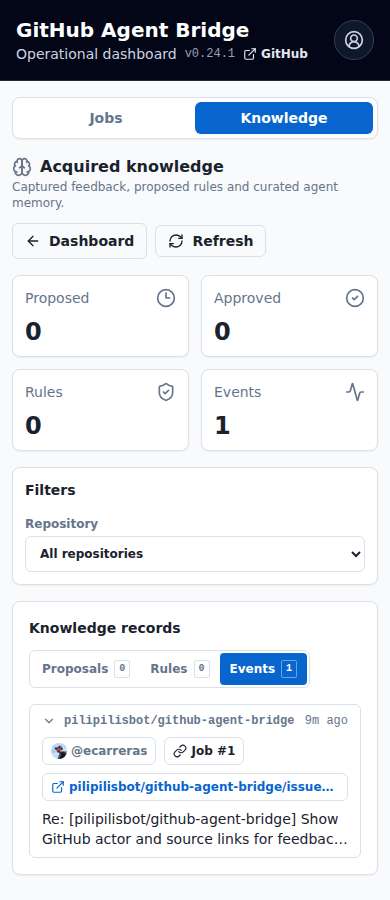
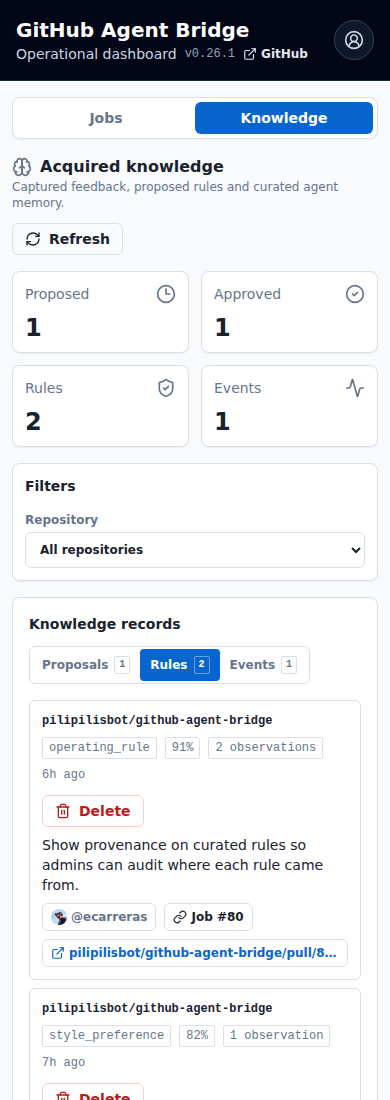
feat: show feedback rule source context

diff --git a/dashboard/src/main.tsx b/dashboard/src/main.tsx
@@ -247,6 +247,7 @@ type KnowledgeRule = {
   created_at: string;
   last_seen: string;
   source_events: string[];
+  source_event_details: KnowledgeEvent[];
   observations: number;
 };
 
@@ -1119,33 +1120,49 @@ function KnowledgeRules({ rules, loading, isAdmin, now, onDeleteRule }: { rules:
   if (rules.length === 0) return <EmptyState text="No curated rules match the current filters." />;
   return (
     <div className="grid gap-2">
-      {rules.map((rule) => (
-        <article key={rule.id} className="grid min-w-0 gap-2 rounded-md border border-border bg-white p-3">
-          <div className="flex flex-wrap items-start justify-between gap-3">
-            <KnowledgeRowHeader scope={rule.scope} type={rule.type} confidence={rule.confidence} status={`${rule.observations} observation${rule.observations === 1 ? "" : "s"}`} timestamp={rule.last_seen} now={now} />
-            {isAdmin ? (
-              <button
-                className="inline-flex h-8 items-center gap-2 rounded-md border border-red-200 px-3 text-sm font-semibold text-red-700 hover:bg-red-50 disabled:opacity-60"
-                type="button"
-                disabled={busyId === rule.id}
-                onClick={async () => {
-                  if (!window.confirm("Delete this curated rule?")) return;
-                  setBusyId(rule.id);
-                  try {
-                    await onDeleteRule(rule.id);
-                  } finally {
-                    setBusyId(null);
-                  }
-                }}
-              >
-                <Trash2 className="h-4 w-4" aria-hidden />
-                Delete
-              </button>
-            ) : null}
-          </div>
-          <p className="min-w-0 break-words text-sm font-medium [overflow-wrap:anywhere]">{rule.rule}</p>
-        </article>
-      ))}
+      {rules.map((rule) => {
+        const sources = rule.source_event_details ?? [];
+        const primarySource = sources[0];
+        const actor = primarySource ? primarySource.trigger_actor || (primarySource.actor !== "github" ? primarySource.actor : null) : null;
+        const sourceUrls = sources.flatMap((source) => source.github_urls ?? []);
+        return (
+          <article key={rule.id} className="grid min-w-0 gap-2 rounded-md border border-border bg-white p-3">
+            <div className="flex flex-wrap items-start justify-between gap-3">
+              <KnowledgeRowHeader scope={rule.scope} type={rule.type} confidence={rule.confidence} status={`${rule.observations} observation${rule.observations === 1 ? "" : "s"}`} timestamp={rule.last_seen} now={now} />
+              {isAdmin ? (
+                <button
+                  className="inline-flex h-8 items-center gap-2 rounded-md border border-red-200 px-3 text-sm font-semibold text-red-700 hover:bg-red-50 disabled:opacity-60"
+                  type="button"
+                  disabled={busyId === rule.id}
+                  onClick={async () => {
+                    if (!window.confirm("Delete this curated rule?")) return;
+                    setBusyId(rule.id);
+                    try {
+                      await onDeleteRule(rule.id);
+                    } finally {
+                      setBusyId(null);
+                    }
+                  }}
+                >
+                  <Trash2 className="h-4 w-4" aria-hidden />
+                  Delete
+                </button>
+              ) : null}
+            </div>
+            <p className="min-w-0 break-words text-sm font-medium [overflow-wrap:anywhere]">{rule.rule}</p>
+            <div className="flex min-w-0 flex-wrap items-center gap-2">
+              <ActorLabel actor={actor} avatarUrl={primarySource?.trigger_actor_avatar_url} framed />
+              {primarySource?.source_job_id ? (
+                <a className="inline-flex h-7 items-center gap-1 rounded-md border border-border px-2 text-xs font-semibold text-foreground hover:bg-white" href={jobPath(primarySource.source_job_id)}>
+                  <Link className="h-3.5 w-3.5" aria-hidden />
+                  Job #{primarySource.source_job_id}
+                </a>
+              ) : null}
+              {sourceUrls.length > 0 ? <GitHubLinkList urls={sourceUrls} compact /> : <span className="font-mono text-xs text-muted">No GitHub link</span>}
+            </div>
+          </article>
+        );
+      })}
     </div>
   );
 }

diff --git a/dashboard/src/main.test.tsx b/dashboard/src/main.test.tsx
@@ -358,6 +358,28 @@ describe("knowledge proposals", () => {
               source_events: ["event-1"],
               created_at: "2026-06-04T10:00:00Z",
               last_seen: "2026-06-04T10:01:00Z",
+              source_event_details: [
+                {
+                  id: "event-1",
+                  occurred_at: "2026-06-04T10:00:00Z",
+                  captured_at: "2026-06-04T10:01:00Z",
+                  source: "github",
+                  scope: "repo:pilipilisbot/github-agent-bridge",
+                  actor: "ecarreras",
+                  trigger_actor: "ecarreras",
+                  trigger_actor_avatar_url: "https://avatars.githubusercontent.com/u/294235?v=4",
+                  github_urls: ["https://github.com/pilipilisbot/github-agent-bridge/issues/73#issuecomment-1"],
+                  source_url: "https://github.com/pilipilisbot/github-agent-bridge/issues/73#issuecomment-1",
+                  source_job_id: 510,
+                  source_table: "job",
+                  github_context: { urls: ["https://github.com/pilipilisbot/github-agent-bridge/issues/73#issuecomment-1"] },
+                  comment: "Prefer tabs for knowledge.",
+                  context: { issue: 73 },
+                  classification: "style_preference",
+                  confidence: 0.84,
+                  memorable: true,
+                },
+              ],
             },
           ],
           events: [
@@ -406,6 +428,9 @@ describe("knowledge proposals", () => {
     expect(screen.getByText("Keep rule rows compact.")).toBeInTheDocument();
     expect(screen.queryByText("Keep knowledge moderation auditable.")).not.toBeInTheDocument();
     expect(screen.queryByLabelText("Proposal status")).not.toBeInTheDocument();
+    expect(screen.getByText("@ecarreras")).toBeInTheDocument();
+    expect(screen.getByText("Job #510")).toBeInTheDocument();
+    expect(screen.getByText("pilipilisbot/github-agent-bridge/issues/73#issuecomment-1")).toBeInTheDocument();
 
     await user.click(screen.getByRole("tab", { name: /events \(1\)/i }));
     expect(screen.getByText("Prefer tabs for knowledge.")).toBeInTheDocument();

diff --git a/src/github_agent_bridge/dashboard_static/index.html b/src/github_agent_bridge/dashboard_static/index.html
@@ -4,7 +4,7 @@
     <meta charset="UTF-8" />
     <meta name="viewport" content="width=device-width, initial-scale=1.0" />
     <title>GitHub Agent Bridge Dashboard</title>
-    <script type="module" crossorigin src="/assets/index-D2I54utr.js"></script>
+    <script type="module" crossorigin src="/assets/index-DKZ9WTH4.js"></script>
     <link rel="modulepreload" crossorigin href="/assets/charts-DRWoArYU.js">
     <link rel="stylesheet" crossorigin href="/assets/index-BUiy8IIC.css">
   </head>

diff --git a/src/github_agent_bridge/feedback.py b/src/github_agent_bridge/feedback.py
@@ -714,7 +714,21 @@ def list_rules(db_path: str | Path, scope: str = "", min_confidence: float | Non
                 "created_at": row["created_at"],
                 "last_seen": row["last_seen"],
                 "source_events": json.loads(row["source_events_json"] or "[]"),
+                "source_event_details": _source_event_details(con, json.loads(row["source_events_json"] or "[]")),
                 "observations": row["observations"],
             }
             for row in con.execute(sql, args)
         ]
+
+
+def _source_event_details(con: sqlite3.Connection, source_events: list[str]) -> list[dict[str, Any]]:
+    details: list[dict[str, Any]] = []
+    seen: set[str] = set()
+    for event_id in source_events:
+        if not event_id or event_id in seen:
+            continue
+        seen.add(event_id)
+        row = con.execute("SELECT * FROM feedback_events WHERE id=?", (event_id,)).fetchone()
+        if row:
+            details.append(_enrich_event(con, _event_dict(row)))
+    return details

diff --git a/tests/test_backend.py b/tests/test_backend.py
@@ -558,9 +558,11 @@ def test_dashboard_knowledge_lists_and_admin_moderates_feedback(tmp_path):
 
     assert listing["repositories"] == ["gisce/erp"]
     assert listing["proposals"][0]["status"] == "proposed"
+    assert listing["rules"] == []
     assert forbidden.status_code == 403
     assert approved.status_code == 200
     assert approved.json()["proposal"]["status"] == "approved"
+    assert rules[0]["source_event_details"][0]["source_url"] == "https://github.com/gisce/erp/pull/1#issuecomment-10"
     assert deleted.status_code == 200
     assert client.get("/api/knowledge", params={"repo": "gisce/erp"}).json()["rules"] == []
 

diff --git a/tests/test_feedback.py b/tests/test_feedback.py
@@ -132,6 +132,8 @@ def test_add_rule_creates_curated_agent_rule(tmp_path):
     assert rule["type"] == "style_preference"
     assert rule["confidence"] == 0.8
     assert rule["source_events"] == [event_id]
+    assert rule["source_event_details"][0]["id"] == event_id
+    assert rule["source_event_details"][0]["source_url"] == "https://github.com/gisce/erp/pull/1#issuecomment-10"
     assert feedback.list_rules(db, "repo:gisce/erp", min_confidence=0.75) == [rule]
     assert feedback.list_rules(db, "repo:gisce/erp", min_confidence=0.95) == []
 